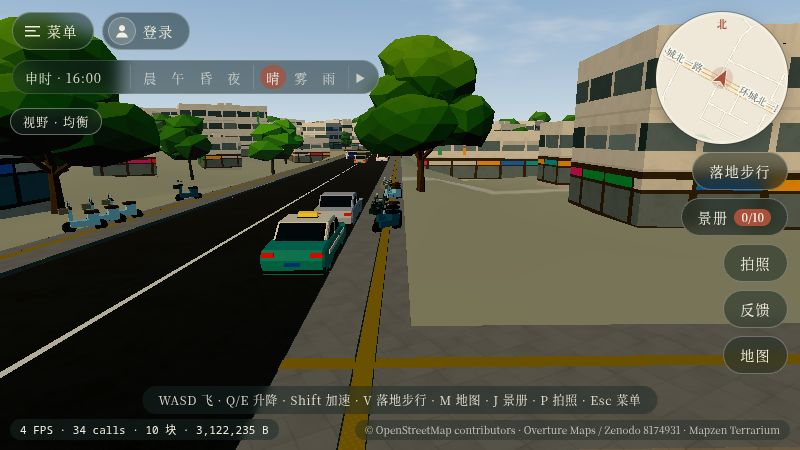
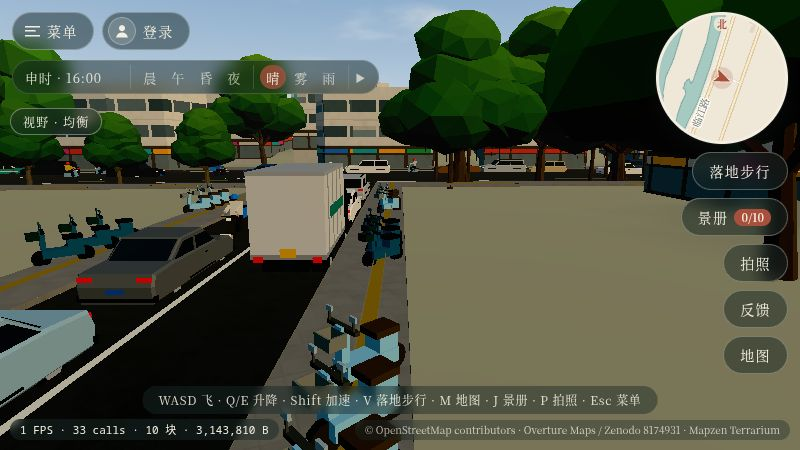
Reserve near-camera traffic, restore residential parking and clear Jiefang pickups

diff --git a/web/src/traffic/sim.ts b/web/src/traffic/sim.ts
@@ -4,12 +4,21 @@ type Lane = {id:number,from:number,to:number,offset:number,kind:'motor'|'bus'|'n
 const tier=(cls?:string)=>cls==='primary'||cls==='trunk'?0:cls==='secondary'?1:cls==='tertiary'?2:3
 const density=[1,.6,.35,.12]
 const sector=(point:Position,center:Position)=>(Math.floor(Math.atan2(point.x-center.x,point.z-center.z)*4/Math.PI+.5)+8)%8
+function coverage(x:number,z:number,y:number,center:Position){
+  const dx=x-center.x,dz=z-center.z,radius=Math.hypot(dx,dz)
+  if(radius<Math.max(8,(center.y-y)*1.45)||radius>60)return 0
+  const angle=Math.atan2(dx,dz)*4/Math.PI+8,nearest=Math.round(angle)
+  let mask=1<<(nearest%8)
+  if(Math.abs(nearest-angle)>.18)mask|=1<<((nearest+Math.sign(angle-nearest)+8)%8)
+  return mask
+}
 type Phase = {lanes:number[],green:number,yellow:number}
 type Signal={node:number,group:number,offset:number,phases:Phase[]}
 export type Graph = {nodes:Node[],lanes:Lane[],walks:[number,number,number,number?][],signals:Signal[]}
 export type Track = Lane & {start:Node,end:Node,dx:number,dz:number,yaw:number,length:number,walk:boolean}
 type Actor = {track:Track,dist:number,speed:number,kind:'car'|'scooter'|'person',down:number,dodge:number,x:number,y:number,z:number,yaw:number,scale:number,leaving:boolean,halfWidth:number,halfLength:number,height:number,holdUntil?:number}
 type Position = {x:number,z:number,y:number}
+export const MAX_ACTORS=100
 const distanceSq=(left:Position,right:Position)=>(left.x-right.x)**2+(left.y-right.y)**2+(left.z-right.z)**2
 
 export class Traffic {
@@ -37,9 +46,12 @@ export class Traffic {
   private anchorX=Infinity
   private anchorZ=Infinity
   private limits=[0,0,0,0]
-  private updateLimits(camera:Position){
+  private rebalanceAt=0
+  private samples:{track:Track,dist:number}[][]=[]
+  private updateLimits(camera:Position,street:boolean){
     if(Math.hypot(this.anchorX-camera.x,this.anchorZ-camera.z)<16)return
     this.anchorX=camera.x;this.anchorZ=camera.z
+    this.samples=Array.from({length:8},()=>[])
     const quota=[0,0,0,0],col=Math.floor(camera.x/128),row=Math.floor(camera.z/128)
     for(let east=col-2;east<=col+2;east++)for(let south=row-2;south<=row+2;south++){
       for(const track of this.cells.get(`${east},${south}`)??[]){
@@ -49,11 +61,22 @@ export class Traffic {
         if(Math.abs(lateral)>=185)continue
         const span=Math.sqrt(185**2-lateral**2),group=tier(track.cls)
         quota[group]+=Math.max(0,Math.min(track.length,center+span)-Math.max(0,center-span))*.095*density[group]
+        if(street&&Math.abs(lateral+track.offset)<60){
+          for(let dist=Math.max(2,center-60);dist<Math.min(track.length,center+60);dist+=6){
+            const x=track.start.x+track.dx*dist-track.dz*track.offset,z=track.start.z+track.dz*dist+track.dx*track.offset
+            const mask=coverage(x,z,track.start.y+(track.end.y-track.start.y)*dist/track.length,camera)
+            for(let i=0;i<8;i++)if(mask&(1<<i))this.samples[i].push({track,dist})
+          }
+        }
       }
     }
-    const factor=Math.min(1,60/Math.max(1,quota.reduce((a,b)=>a+b,0)))
+    const budget=street?MAX_ACTORS-(quota[0]>=60?12:20):60
+    const primary=street?Math.min(quota[0],budget):0
+    if(street)quota[0]=0
+    const factor=Math.min(1,(budget-primary)/Math.max(1,quota.reduce((a,b)=>a+b,0)))
     let sum=0
     this.limits=quota.map(value=>{const before=Math.round(sum);sum+=value*factor;return Math.round(sum)-before})
+    this.limits[0]+=Math.round(primary)
   }
   constructor(graph:Graph,random=Math.random){
     this.random=random
@@ -108,46 +131,64 @@ export class Traffic {
   green(track:Lane,time=this.time){
     return this.phase(track,time)==='green'
   }
-  step(dt:number,camera:Position,vehicle?:Position,visible?:(point:Position)=>boolean){
+  step(dt:number,camera:Position,vehicle?:Position,visible?:(point:Position)=>boolean,profile?:(spawn:number,grid:number,motion:number)=>void){
+    const start=profile?performance.now():0
     this.time+=dt
     this.actors=this.actors.filter(actor=>(!actor.leaving||actor.scale>0)&&distanceSq(actor,camera)<210**2)
     let persons=0,scooters=0
-    this.updateLimits(camera)
+    this.updateLimits(camera,!!visible)
     const counts=[0,0,0,0]
     let outside=0
-    const canSpawn=this.actors.length<80
+    const cap=visible?MAX_ACTORS:80,canSpawn=this.actors.length<cap
     const nearbySectors=canSpawn&&visible?new Uint8Array(8):null
     const sectorPopulation=nearbySectors?new Uint8Array(8):null
+    const countNearby=(actor:Actor)=>{const mask=coverage(actor.x,actor.z,actor.y,camera);for(let i=0;i<8;i++)if(mask&(1<<i))nearbySectors![i]++}
     for(const actor of this.actors){
       if(actor.kind==='person'){persons++;continue}
       counts[tier(actor.track.cls)]++;scooters+=Number(actor.kind==='scooter')
       if(canSpawn&&visible&&!visible(actor))outside++
-      if(nearbySectors&&sectorPopulation){const octant=sector(actor,camera);sectorPopulation[octant]++;if(distanceSq(actor,camera)<65**2)nearbySectors[octant]++}
+      if(nearbySectors&&sectorPopulation){sectorPopulation[sector(actor,camera)]++;countNearby(actor)}
     }
     let motors=this.actors.length-persons
-    for(let attempt=0;attempt<48 && this.actors.length<80;attempt++){
-      const walk=persons<20 && (motors>=60||attempt%3===0)
-      if(!walk&&motors>=60)continue
+    const walkers=visible&&this.limits[0]>=60?12:20
+    if(visible&&walkers===12&&this.time>=this.rebalanceAt){
+      this.rebalanceAt=this.time+.25
+      let distant:Actor|undefined,inView=0
+      for(const actor of this.actors){
+        if(actor.kind==='person'||actor.leaving)continue
+        if(visible(actor)){inView++;continue}
+        if(distanceSq(actor,camera)>60**2&&(!distant||distanceSq(actor,camera)>distanceSq(distant,camera)))distant=actor
+      }
+      if(inView<52&&distant)distant.leaving=true
+    }
+    for(let attempt=0;attempt<48 && this.actors.length<cap;attempt++){
+      const walk=persons<walkers && (motors>=cap-walkers||attempt%3===0)
+      if(!walk&&motors>=cap-walkers)continue
+      const bucket=attempt%8
+      const samples=!walk&&nearbySectors&&nearbySectors[bucket]<8?this.samples[bucket]:null
+      const target=samples?.length?samples[Math.floor(this.random()*samples.length)]:null
       const cell=this.cells.get(`${Math.floor(camera.x/128)+Math.floor(this.random()*3)-1},${Math.floor(camera.z/128)+Math.floor(this.random()*3)-1}`)
-      if(!cell?.length)continue
-      const track=cell[Math.floor(this.random()*cell.length)]
+      if(!cell?.length&&!target)continue
+      const track=target?.track??cell![Math.floor(this.random()*cell!.length)]
       const scooter=scooters<Math.round((motors+1)*.36)
       const group=tier(track.cls)
-      if(!walk&&counts[group]>=this.limits[group])continue
+      if(!walk&&!target&&counts[group]>=this.limits[group])continue
       if(track.walk!==walk || (!walk&&(track.kind==='bus'||(!scooter&&track.kind==='nonmotor'))))continue
       const actor:Actor={track,dist:this.random()*track.length,speed:0,kind:walk?'person':scooter?'scooter':'car',down:0,dodge:0,x:0,y:0,z:0,yaw:0,scale:0,leaving:false,halfWidth:scooter?.3:.9,halfLength:scooter?.85:2.1,height:1.5}
+      if(target)actor.dist=target.dist
       this.position(actor)
       const offscreen=!walk&&visible&&!visible(actor)
       const radial=distanceSq(actor,camera),octant=nearbySectors&&!walk?sector(actor,camera):-1
-      if(octant>=0&&offscreen&&sectorPopulation![octant]>=5&&sectorPopulation!.some(count=>count<4)&&this.random()>.04)continue
+      if(!target&&octant>=0&&offscreen&&sectorPopulation![octant]>=5&&sectorPopulation!.some(count=>count<4)&&this.random()>.04)continue
       if(octant>=0&&motors>12&&nearbySectors![octant]<3&&radial>=65**2&&this.random()>.25)continue
-      if(offscreen&&outside>=27&&this.limits[0]>=30&&this.random()>.04)continue
+      if(!target&&offscreen&&outside>=22&&this.limits[0]>=30&&this.random()>.04)continue
       if(!walk&&nearStatic(actor.x,actor.z)&&resolveContact(actor,actor.y,actor.yaw,actor.halfWidth,actor.halfLength,staticSolids))continue
       if(radial>185**2 || this.actors.some(other=>(other.x-actor.x)**2+(other.z-actor.z)**2<(other.track.id===track.id?36:5)))continue
       this.actors.push(actor)
-      if(octant>=0){sectorPopulation![octant]++;if(radial<65**2)nearbySectors![octant]++}
+      if(octant>=0){sectorPopulation![octant]++;countNearby(actor)}
       if(walk)persons++;else {counts[group]++;motors++;scooters+=Number(scooter);outside+=Number(!!offscreen)}
     }
+    const spawned=profile?performance.now():0
     for(const [node,queue] of this.queues){
       const retained=queue.filter(actor=>this.actors.includes(actor)&&!actor.leaving&&(actor.track.to===node||actor.track.from===node&&actor.dist<6))
       if(retained.length)this.queues.set(node,retained);else this.queues.delete(node)
@@ -158,17 +199,31 @@ export class Traffic {
       const bin=obstacles.get(key)
       if(bin)bin.push(obstacle);else obstacles.set(key,[obstacle])
     }
-    for(const actor of this.actors){
+    const gridded=profile?performance.now():0
+    this.advanceActors(dt)
+    profile?.(spawned-start,gridded-spawned,performance.now()-gridded)
+  }
+  private advanceActors(dt:number){
+    const decay=Math.exp(-dt*1.2)
+    for(const actor of this.actors)this.advanceActor(actor,dt,decay)
+    this.actors=this.actors.filter(actor=>Number.isFinite(actor.y))
+  }
+  private advanceActor(actor:Actor,dt:number,decay:number){
+      const obstacles=this.obstacles
       const {track}=actor,person=actor.kind==='person'
-      if(actor.leaving){actor.scale=Math.max(0,actor.scale-dt/.4);continue}
+      if(actor.leaving){actor.scale=Math.max(0,actor.scale-dt/.4);return}
       actor.scale=Math.min(1,actor.scale+dt/.4)
-      if(actor.holdUntil&&actor.holdUntil>performance.now()){actor.speed=0;continue}
+      if(actor.holdUntil&&actor.holdUntil>performance.now()){actor.speed=0;return}
       const maxSpeed=(person?1.4:Math.min(track.speedKmh/3.6,actor.kind==='car'?12:7))
       let advance=Math.min(maxSpeed,actor.speed+dt*2)*dt
-      if(actor.down>0){actor.down-=dt;continue}
-      actor.dodge*=Math.exp(-dt*1.2)
+      if(actor.down>0){actor.down-=dt;return}
+      actor.dodge*=decay
       const left=Math.floor((actor.x-7)/16),right=Math.floor((actor.x+7)/16),top=Math.floor((actor.z-7)/16),bottom=Math.floor((actor.z+7)/16)
-      nearby:for(let col=left;col<=right;col++)for(let row=top;row<=bottom;row++)for(const other of obstacles.get(col*65536+row)??[]){
+      nearby:for(let col=left;col<=right;col++)for(let row=top;row<=bottom;row++){
+        const bin=obstacles.get(col*65536+row)
+        if(!bin)continue
+        for(let index=0;index<bin.length;index++){
+        const other=bin[index]
         if(other===actor||Math.abs(other.y-actor.y)>2)continue
         const dx=other.x-actor.x,dz=other.z-actor.z
         if(Math.abs(dx)>7||Math.abs(dz)>7)continue
@@ -181,7 +236,8 @@ export class Traffic {
             const away=dx*track.dz-dz*track.dx>=0?1:-1
             actor.dodge=Math.max(-.9,Math.min(.9,actor.dodge+away*dt*3));advance=0;break nearby
           }
-        }else if(ahead>0&&lateral<1.8){advance=Math.min(advance,Math.max(0,ahead-5))}
+        }else if(ahead>0&&lateral<1.8){advance=Math.min(advance,Math.max(0,ahead-5));if(!advance)break nearby}
+        }
       }
       if(!person&&this.junctions.has(track.to)&&track.length-actor.dist<9){
         const queue=this.queues.get(track.to)??[]
@@ -198,12 +254,12 @@ export class Traffic {
       actor.speed=advance/dt;actor.dist+=advance
       if(!person&&advance>0&&nearStatic(actor.x+track.dx*advance,actor.z+track.dz*advance)){
         const next={x:actor.x+track.dx*advance,y:actor.y,z:actor.z+track.dz*advance}
-        if(resolveContact(next,next.y,track.yaw,actor.halfWidth,actor.halfLength,staticSolids)){actor.speed=0;actor.dist-=advance;continue}
+        if(resolveContact(next,next.y,track.yaw,actor.halfWidth,actor.halfLength,staticSolids)){actor.speed=0;actor.dist-=advance;return}
       }
       if(actor.dist>=track.length){
         if(!person&&this.signal.has(track.to)){this.crossed++;this.onCross?.(track,this.time)}
         const choices=(this.exits.get(track.to)??[]).filter(next=>next.walk===person && (person||next.to!==track.from) && (person||next.kind==='motor'||(actor.kind==='scooter'&&next.kind==='nonmotor')))
-        if(!choices.length){actor.dist=track.length;actor.speed=0;actor.leaving=true;continue}
+        if(!choices.length){actor.dist=track.length;actor.speed=0;actor.leaving=true;return}
         const onward=choices.filter(next=>next.to!==track.from)
         const pool=onward.length?onward:choices
         const straight=pool.filter(next=>next.dx*track.dx+next.dz*track.dz>.88)
@@ -211,7 +267,5 @@ export class Traffic {
         actor.dist=0;this.transitions++
       }
       this.position(actor)
-    }
-    this.actors=this.actors.filter(actor=>Number.isFinite(actor.y))
   }
 }

diff --git a/web/src/traffic/index.ts b/web/src/traffic/index.ts
@@ -1,5 +1,5 @@
 import * as THREE from 'three'
-import {Traffic,type Graph} from './sim'
+import {MAX_ACTORS,Traffic,type Graph} from './sim'
 import {getState} from '../game/state'
 import {curbside,staticSolids,useTrafficSolids,type Solid,contactSamples,sampleContacts} from './contact'
 import {onPlayMode} from '../game/play-mode'
@@ -25,21 +25,21 @@ export async function traffic(scene:THREE.Scene,camera:THREE.Camera,verify:boole
   if(!index.ok)throw Error(`traffic cells: ${index.status}`)
   const cells=new Set<string>(await index.json()),object=new THREE.Object3D()
   let sim:Traffic|undefined,key=''
-  const mesh=new THREE.InstancedMesh(new THREE.BoxGeometry(),new THREE.MeshLambertMaterial({color:0x999999}),80)
+  const mesh=new THREE.InstancedMesh(new THREE.BoxGeometry(),new THREE.MeshLambertMaterial({color:0x999999}),MAX_ACTORS)
   const frustum=new THREE.Frustum(),projection=new THREE.Matrix4(),point=new THREE.Vector3()
   const visible=(actor:{x:number,y:number,z:number})=>frustum.containsPoint(point.set(actor.x,actor.y+.7,actor.z))
   mesh.userData.loads=[]
   sampleContacts(verify);mesh.userData.contactMs=contactSamples;mesh.userData.stepMs=[];let sampleIndex=0
+  const parts={spawn:[] as number[],grid:[] as number[],motion:[] as number[]};mesh.userData.stepParts=parts
+  const profile=verify?(spawn:number,grid:number,motion:number)=>{const index=sampleIndex%256;parts.spawn[index]=spawn;parts.grid[index]=grid;parts.motion[index]=motion}:undefined
   if(verify)mesh.userData.motorIds=[]
-  // 'G2 traffic' stays as an invisible box proxy: verify probes (counts, pixel ids) read it.
-  // What players see is the BatchedMesh below: slots 0..79 = sim actors.
-  // IDOK-153: the traffic-violation / police pursuit mechanic was removed at Rock's request.
+  // 'G2 traffic' / 'G4 patrol' stay as invisible box proxies: verify probes (counts, pixel ids) read them.
   mesh.name='G2 traffic';mesh.count=0;mesh.visible=false;mesh.frustumCulled=false;mesh.instanceMatrix.setUsage(THREE.DynamicDrawUsage);scene.add(mesh)
   let pursuit:Pursuit|undefined,loadingPursuit=false
   const police=new THREE.InstancedMesh(mesh.geometry,mesh.material,5)
   police.name='G4 patrol';police.count=0;police.visible=false;police.frustumCulled=false;scene.add(police)
   const parkingIndex:Record<string,number>=await fetch('/world/roads/parking/index.json').then(r=>r.ok?r.json():{}).catch(()=>({}))
-  const models=trafficModels(),STATIC=85,SLOTS=STATIC+9*Math.max(0,...Object.values(parkingIndex)),PATROL=80
+  const models=trafficModels(),PATROL=MAX_ACTORS,STATIC=PATROL+5,SLOTS=STATIC+9*Math.max(0,...Object.values(parkingIndex))
   const batch=new THREE.BatchedMesh(SLOTS,models.geometries.reduce((sum,g)=>sum+g.attributes.position.count,0),0,trafficMaterial())
   batch.name='G2 traffic visuals';batch.frustumCulled=false;batch.perObjectFrustumCulled=true;scene.add(batch)
   const geometryIds=models.geometries.map(g=>batch.addGeometry(g))
@@ -128,7 +128,7 @@ export async function traffic(scene:THREE.Scene,camera:THREE.Camera,verify:boole
     camera.updateMatrixWorld()
     frustum.setFromProjectionMatrix(projection.multiplyMatrices(camera.projectionMatrix,camera.matrixWorldInverse))
     while(accumulator>=.05){
-      const start=verify?performance.now():0;sim.step(.05,camera.position,vehicle,visible);accumulator-=.05
+      const start=verify?performance.now():0;sim.step(.05,camera.position,vehicle,visible,profile);accumulator-=.05
       if(verify)mesh.userData.stepMs[sampleIndex++%256]=performance.now()-start
     }
     mesh.count=sim.actors.length

diff --git a/web/src/traffic/contact.ts b/web/src/traffic/contact.ts
@@ -33,6 +33,8 @@ export function resolveContact(point:Point,footY:number,yaw:number,width:number,
   source?.(point.x,point.z,solid=>{
     if(footY>=solid.y+solid.height||footY+1.5<=solid.y)return
     const dx=point.x-solid.x,dz=point.z-solid.z
+    const reach=width+length+solid.halfWidth+solid.halfLength
+    if(dx*dx+dz*dz>reach*reach)return
     const cs=Math.cos(solid.yaw),sn=Math.sin(solid.yaw)
     let pushX=0,pushZ=0
     if(!length){

diff --git a/pipeline/traffic_parking.py b/pipeline/traffic_parking.py
@@ -37,6 +37,7 @@ def bake_parking(output, segments, elements, nodes, forbidden):
     legacy = STRtree([Point(east, south) for east, _, south, *_ in pickups])
     cells = defaultdict(list)
     counts = Counter()
+    eligible = Counter()
     for start, end, way, tags, cls, sign, offset, extent in segments:
         if not allowed(tags, 'right' if sign > 0 else 'left', cls) or extent-offset < 1.95:
             continue
@@ -48,8 +49,7 @@ def bake_parking(output, segments, elements, nodes, forbidden):
         while distance < length-3.5:
             along = distance/length
             distance += rng.uniform(6, 7.5)
-            if rng.random() >= .5:
-                continue
+            occupied = rng.random() < (.41 if cls == 'tertiary' else .59)
             lateral = extent-.95
             x = head['x']+east*along-south/length*lateral
             z = head['z']+south*along+east/length*lateral
@@ -57,6 +57,9 @@ def bake_parking(output, segments, elements, nodes, forbidden):
             point = Point(x, z)
             if (forbidden.intersects(point.buffer(2.6)) or junctions.query(point, predicate='dwithin', distance=18).size or
                     legacy.query(point, predicate='dwithin', distance=8.0).size):
+                continue
+            eligible[cls] += 1
+            if not occupied:
                 continue
             y = head['y']+(tail['y']-head['y'])*along
             key = f'{math.floor(x/256)}_{math.floor(z/256)}'
@@ -67,4 +70,4 @@ def bake_parking(output, segments, elements, nodes, forbidden):
     for key, rows in cells.items():
         (dest/f'{key}.json.gz').write_bytes(gzip.compress(json.dumps(rows, separators=(',', ':')).encode(), mtime=0))
     (dest/'index.json').write_text(json.dumps({key:len(rows) for key,rows in sorted(cells.items())}, separators=(',', ':')))
-    print('G2 parking:', dict(counts), 'cells:', len(cells))
+    print('G2 parking:', dict(counts), 'eligible:', dict(eligible), 'cells:', len(cells))

diff --git a/pipeline/traffic.py b/pipeline/traffic.py
@@ -86,10 +86,12 @@ def bake(output, manifest):
         direction = tags.get('oneway', 'yes' if tags.get('junction') == 'roundabout' else 'no')
         single = direction in ('yes', '1', 'true', '-1')
         bridge_motor = way['id'] in SPAN_WAYS and kind in MOTOR
-        fallback = 3 if bridge_motor else 1 if single or kind in WALK else 2
+        fallback = 3 if bridge_motor else 1 if single or kind in WALK or kind == 'residential' else 2
         count = max(1, min(12, int(number(tags.get('lanes'), fallback))))
         size = min(4, max(2, number(tags.get('width'), count*(3.7 if bridge_motor else 3))/count))
         paved = sections.get(way['id'], number(tags.get('width'), {'tertiary':10,'residential':6}.get(kind, 3)))
+        if kind == 'residential' and 'lanes' not in tags:
+            paved = number(tags.get('width'), 6.5)
         curb = 0
         curb_sign = -1 if direction == '-1' else 1
         if (kind == 'residential' and 1 <= count <= 2 and paved >= 3*count+2.1 and

diff --git a/pipeline/pickup_curbs.py b/pipeline/pickup_curbs.py
@@ -1,0 +1,28 @@
+import gzip
+import json
+from pathlib import Path
+
+
+def align_jiefang_pickups(cars):
+    curbs = {
+        (-455.4, -47.4): (-432.7, 151.8, -59.0, 1.256),
+        (-989.7, -195): (-1001.5, 151.5, -197.3, 1.393),
+    }
+    for car in cars:
+        replacement = curbs.get((car[0], car[2]))
+        if replacement:
+            car[:4] = replacement
+
+
+if __name__ == '__main__':
+    from common import OUT
+
+    output = Path(OUT)
+    vehicles = output / 'vehicles.bin'
+    manifest = output / 'manifest.json'
+    data = json.loads(gzip.decompress(vehicles.read_bytes()))
+    align_jiefang_pickups(data['cars'])
+    vehicles.write_bytes(gzip.compress(json.dumps(data, ensure_ascii=False, separators=(',', ':')).encode(), mtime=0))
+    index = json.loads(manifest.read_text())
+    index['vehicles']['bytes'] = vehicles.stat().st_size
+    manifest.write_text(json.dumps(index, ensure_ascii=False, separators=(',', ':')))

diff --git a/pipeline/vehicles.py b/pipeline/vehicles.py
@@ -150,11 +150,13 @@ def plan_vehicles(bounds, surface, roads, buildings, sample, landmark_faces=(), 
 
 
 def write_vehicles(output,data,triangles):
+    from pickup_curbs import align_jiefang_pickups
     root = Path(__file__).resolve().parents[1]
     spawns = {key: data[key] for key in ('bikes','sharedBikes','bicycles','cars') if key in data}
     filtered = subprocess.run([root/'node_modules/.bin/tsx', root/'scripts/filter-parked.ts'],
                               input=json.dumps(spawns), capture_output=True, text=True, check=True)
     data.update(json.loads(filtered.stdout))
+    align_jiefang_pickups(data['cars'])
     checked = audit_routes(data['routes'], triangles, select=True)
     if len(checked) != len(data['routes']):
         raise ValueError('航道核查失败，有航段净空不足')
